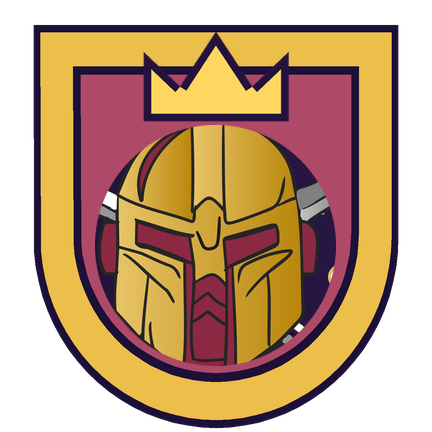
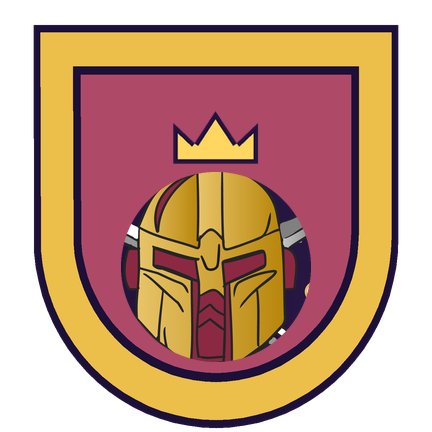
Added flair

Changed region(s): [[0.2106, 0.0602, 0.7824, 0.8727]]

diff --git a/index.html b/index.html
@@ -7499,8 +7499,8 @@
         <div class="btn-grid">
       <a class="proj-btn" href="images/twitch/Floral/Flair/tier2_flair_432.png?v=53cf271d" target="_blank" rel="noopener" title="Twitch chat flair: Floral tier2 flair">Floral tier2 flair</a>
       <a class="proj-btn" href="images/twitch/Floral/Flair/tier3_flair_432.png?v=107b7746" target="_blank" rel="noopener" title="Twitch chat flair: Floral tier3 flair">Floral tier3 flair</a>
-      <a class="proj-btn" href="images/twitch/Helmet/Flair/tier2_flair_432.png?v=a95bb1ad" target="_blank" rel="noopener" title="Twitch chat flair: Helmet tier2 flair">Helmet tier2 flair</a>
-      <a class="proj-btn" href="images/twitch/Helmet/Flair/tier3_flair_432.png?v=fb9f6203" target="_blank" rel="noopener" title="Twitch chat flair: Helmet tier3 flair">Helmet tier3 flair</a>
+      <a class="proj-btn" href="images/twitch/Helmet/Flair/tier2_flair_432.png?v=ce0ddfd4" target="_blank" rel="noopener" title="Twitch chat flair: Helmet tier2 flair">Helmet tier2 flair</a>
+      <a class="proj-btn" href="images/twitch/Helmet/Flair/tier3_flair_432.png?v=068d5952" target="_blank" rel="noopener" title="Twitch chat flair: Helmet tier3 flair">Helmet tier3 flair</a>
       <a class="proj-btn" href="images/twitch/Hood/Flair/tier2_flair_432.png?v=c0ca7684" target="_blank" rel="noopener" title="Twitch chat flair: Hood tier2 flair">Hood tier2 flair</a>
       <a class="proj-btn" href="images/twitch/Hood/Flair/tier3_flair_432.png?v=78699f1e" target="_blank" rel="noopener" title="Twitch chat flair: Hood tier3 flair">Hood tier3 flair</a>
       <a class="proj-btn" href="images/twitch/Northbeam/Flair/tier2_flair_432.png?v=fa6fde0a" target="_blank" rel="noopener" title="Twitch chat flair: Northbeam tier2 flair">Northbeam tier2 flair</a>

diff --git a/tools/make_redo.py b/tools/make_redo.py
@@ -127,10 +127,27 @@ def tessel_flair(C, tier, size=432):
     return img
 
 
+def helmet_flair(C, tier, size=432):
+    """Helmet art and a small crown, both fully inside the shield."""
+    img = ms.medallion(C, size, None, C["main"] if tier == 2 else C["accent"])
+    d = int(size * (0.44 if tier == 2 else 0.5))
+    pic = portrait_disc(C, d)
+    img.alpha_composite(pic, ((size - d) // 2, int(size * 0.40)))
+    crown = prop_img(C, "crown", int(size * (0.2 if tier == 2 else 0.26)))
+    img.alpha_composite(crown, ((size - crown.width) // 2, int(size * 0.22)))
+    dr = ImageDraw.Draw(img)
+    if tier == 3:
+        for sx in (-1, 1):
+            mr.sparkle(dr, 1, size / 2 + sx * size * 0.2, size * 0.3, 12, fill=C["accent"])
+    return img
+
+
 def flair(C, tier, size=432):
     name = C["_name"]
     if name == "Tessel":
         return tessel_flair(C, tier, size)
+    if name == "Helmet":
+        return helmet_flair(C, tier, size)
     mode = FLAIR_MODE.get(name, "flank")
     sig = SIG[name]
     img = Image.new("RGBA", (size, size), (0, 0, 0, 0))
